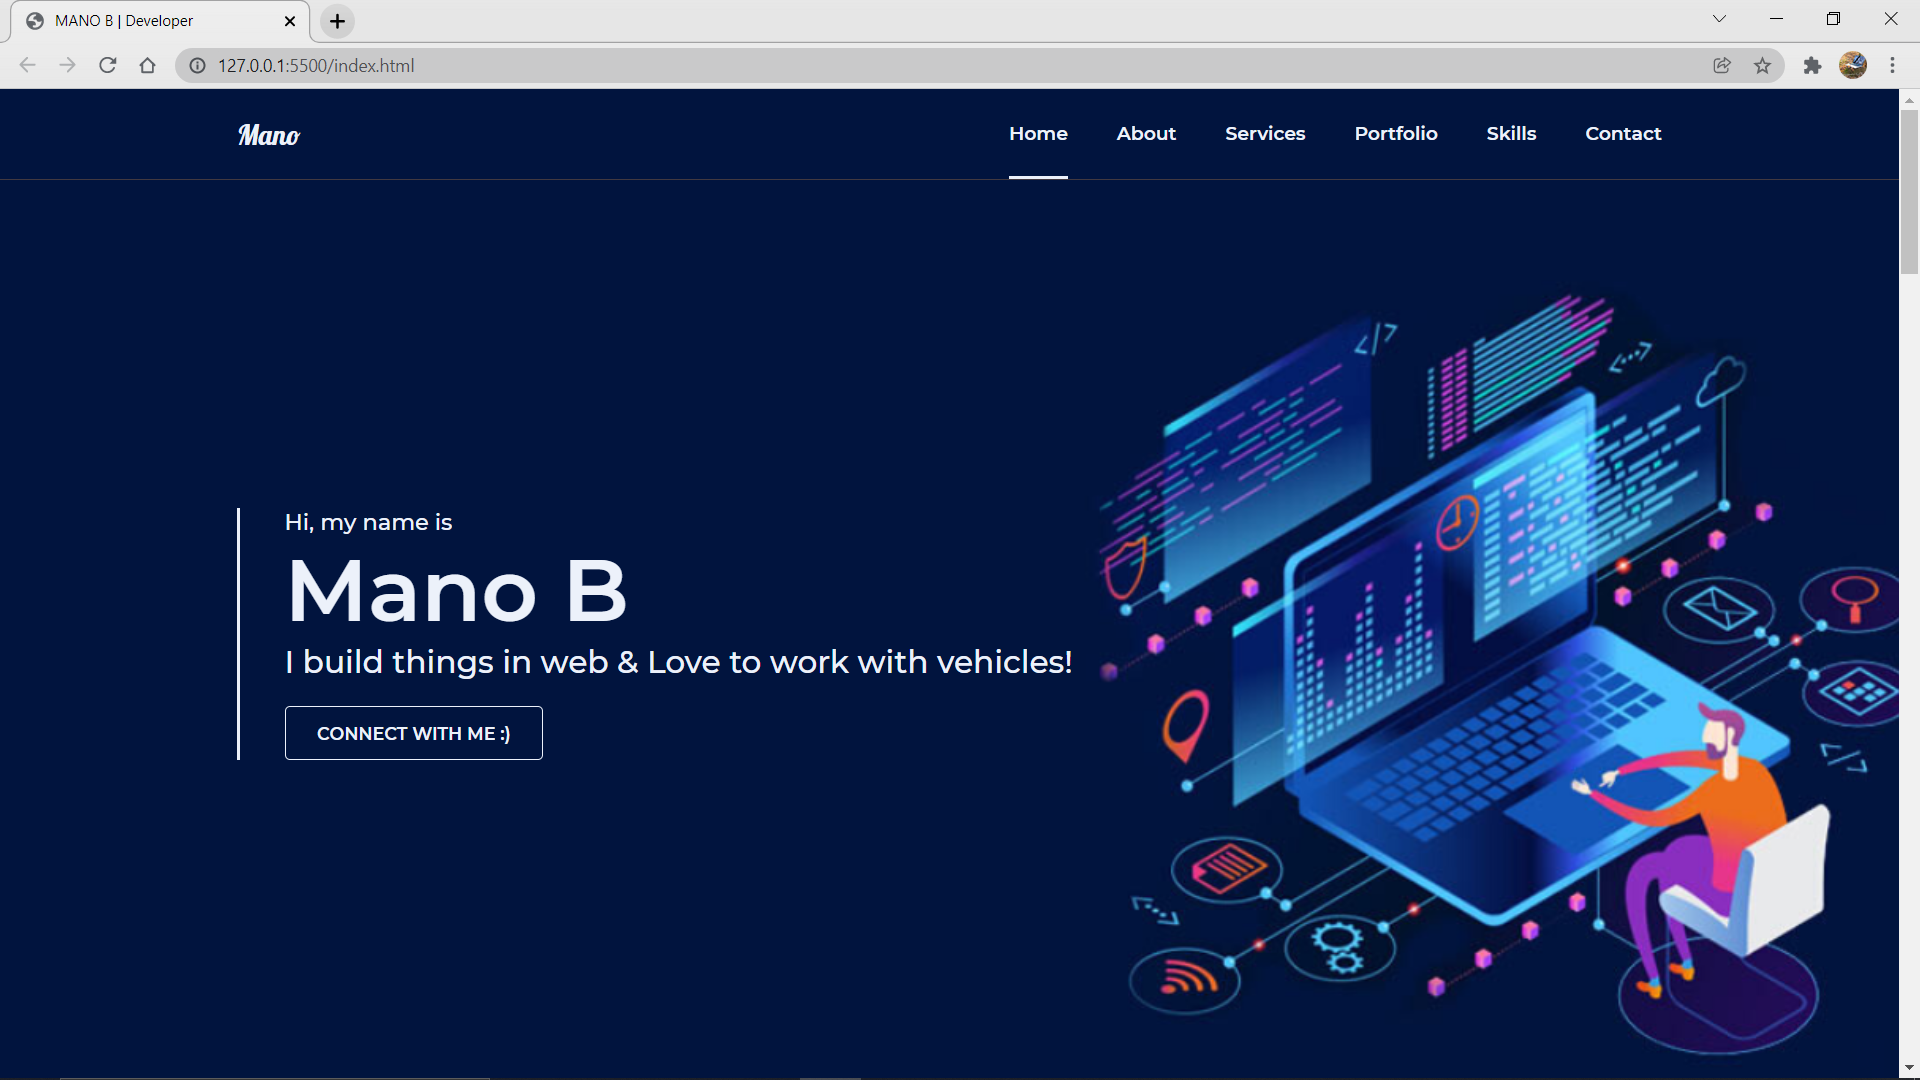
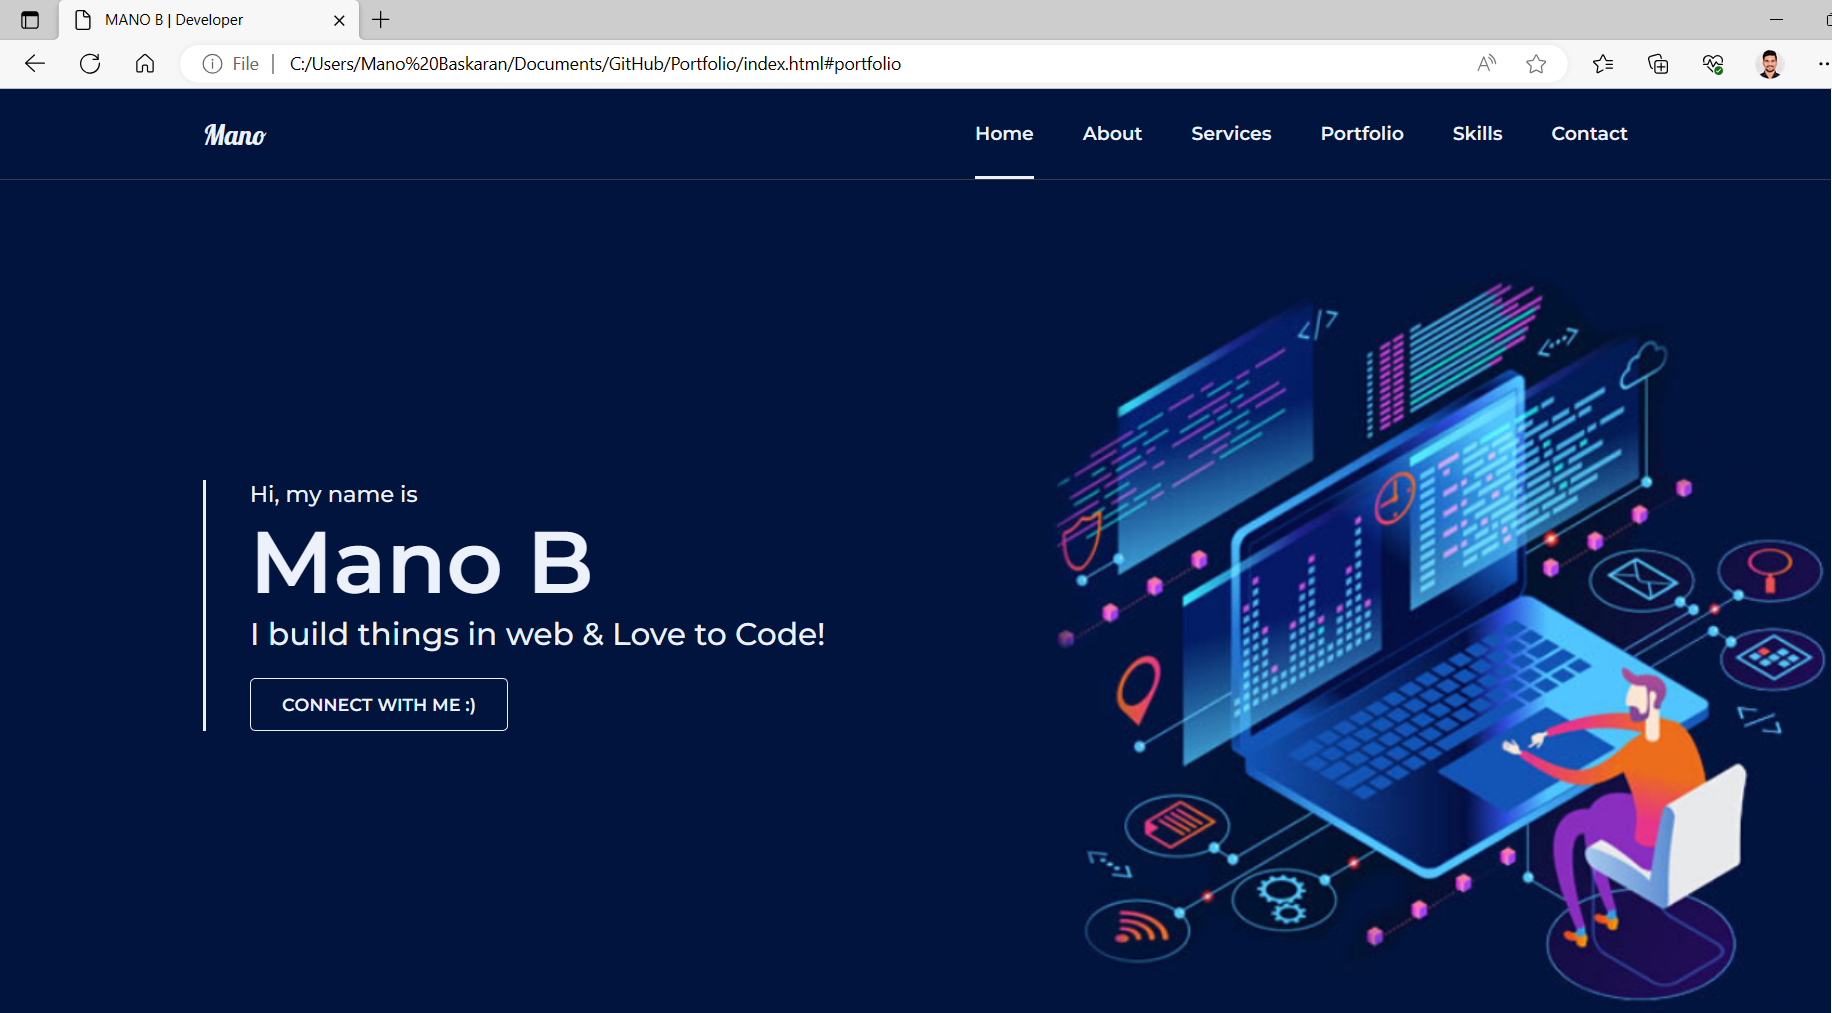
updated

diff --git a/index.html b/index.html
@@ -50,7 +50,7 @@
                   <div class="block">
                      <h6>Hi, my name is</h6>
                      <h1>Mano B</h1>
-                     <h3>I build things in web & Love to work with vehicles!</h3>
+                     <h3>I build things in web & Love to Code!</h3>
                      <div class="cv-btn">
                         <a href="mailto:sbmano2000@gmail.com">Connect with me :)</a>
                      </div>
@@ -74,32 +74,34 @@
                      <img src="img/me.png" alt='me' />
                   </div>
                   <div class="text">
-                     <h4>I'm Mano B</h4>
-                     <h6>A <span>Automobile Engineer</span> and <span> Web developer</span> living and working in
-                      Chennai, Tamilnadu
+                     <h4>I'm Mano</h4>
+                     <h6>A <span>Software Developer</span> having seven months of experience in Web Development.
                      </h6>
-                     <p>A vibrant B.E graduate from Anna University, Chennai. A guy obsessed with modern vehicle and have passionate about creating websites. Experienced with doing electrical and front end projects.
+                     <p>Worked as a full stack developer in <b> Accolite Digital</b>.
+                     </p>
+                     <p>I have completed my  Bachelor's Degree from <b> Anna University</b>, Chennai. Passionate developer having professional experience in developing web application using Java and angular.
                      </p>
                      <div class="skills">
                         <h6>Here are the few Technologies I've been currently learning and working:</h6>
                         <div class="skills-list">
                         <ul  class="fa-ul">
-                           <li><span class="fa-li"><i class="fas fa-check-square"></i></span>C/C++</li>
-                           <li><span class="fa-li"><i class="fas fa-check-square"></i></span>HTML5</li>
-                           <li><span class="fa-li"><i class="fas fa-check-square"></i></span>CSS</li>
-                           <li><span class="fa-li"><i class="fas fa-check-square"></i></span>MYSqL</li>
+                           <li><span class="fa-li"><i class="fas fa-check-square"></i></span>Java</li>
+                           <li><span class="fa-li"><i class="fas fa-check-square"></i></span>Spring Boot</li>
+                           <li><span class="fa-li"><i class="fas fa-check-square"></i></span>Angular</li>
+                           <li><span class="fa-li"><i class="fas fa-check-square"></i></span>MySQL</li>
                         </ul>
                         <ul  class="fa-ul">
-                           <li><span class="fa-li"><i class="fas fa-check-square"></i></span>Java</li>
-                           <li><span class="fa-li"><i class="fas fa-check-square"></i></span>Catia</li>
-                           <li><span class="fa-li"><i class="fas fa-check-square"></i></span>Fusion 360</li>
-                           <li><span class="fa-li"><i class="fas fa-check-square"></i></span>Power Train</li>
+                           <li><span class="fa-li"><i class="fas fa-check-square"></i></span>Postgres</li>
+                           <li><span class="fa-li"><i class="fas fa-check-square"></i></span>Bootstrap</li>
+                           <li><span class="fa-li"><i class="fas fa-check-square"></i></span>Jenkins</li>
+                           <li><span class="fa-li"><i class="fas fa-check-square"></i></span>Cloud Technology</li>
                         </ul>
                         </div>
                      </div>
                      <div class="social">
                         <a href="https://github.com/Sbmano"><i class="fa fa-github"></i></a>
                         <a href="https://www.linkedin.com/in/Sbmano"><i class="fa fa-linkedin"></i></a>
+                        <a href="https://auth.geeksforgeeks.org/user/sbmano100"><i class="fa fa-code"></i></a>
                      </div>
                   </div>
                </div>
@@ -117,21 +119,27 @@
                <div class="service-content">
                   <div class="box">
                      <div class="icon"><i class="fa fa-laptop"></i></div>
-                     <h5>Web Design</h5>
+                     <h5>Web Development</h5>
                      <p>From single landing pages to a fully-blown Application system,
-                        I'll create a design that fits you and your business.
+                        I'll create a Web application that fits you and your business.
                      </p>
                   </div>
+               <div class="box">
+                  <div class="icon"><i class="fas fa-code"></i></div>
+                  <h5>Backend Configuration </h5>
+                  <p>I will securely handle storing and fetching a data from backend and utilise encryption algorithms to ensure integrity.
+                  </p>
+               </div>
                   <div class="box">
                      <div class="icon"><i class="fas fa-truck"></i></div>
-                     <h5>Vehicle Suggestion </h5>
-                     <p>As an automobile engineer I know the pros and cons of each vehicle. So that I can help you to buy a best class vehicle for your budget.
+                     <h5>Vehicle Suggestions </h5>
+                     <p>Also as an automobile engineer I know the pros and cons of most of the vehicles. If you want idea on how to choose vehicles reach out to me. I can help you to buy a best class vehicle in market for your budget.
                      </p>
                   </div>
                   <div class="box">
-                     <div class="icon"><i class="fas fa-car"></i></div>
-                     <h5>Automotive Design</h5>
-                     <p>I will design the basic automotive components according to the given data.
+                     <div class="icon"><i class="fas fa-dumbbell"></i></div>
+                     <h5>Fitness Guidance </h5>
+                     <p>I am a fitness enthusiast. If you really want to get a good physique and do not know how to start feel free to reach out to me. I will guide you step by step. 
                      </p>
                   </div>
                </div>
@@ -149,8 +157,8 @@
                <div class="filter-btn">
                   <ul id="filterBtn">
                      <li class="active" data-target="all">All</li>
-                     <li data-target="web">Web Design</li>
-                     <li data-target="app">Automotive Projects</li>
+                     <li data-target="web">Web Projects</li>
+                     <li data-target="app">E2E Application</li>
                   </ul>
                </div>
             </div>
@@ -161,7 +169,7 @@
                         <img src="./img/portfolio/e-commerce.png" alt="portfolio"/>
                         <div class="overlay">
                            <span class="fa fa-plus"></span>
-                           <h4>Web Design</h4>
+                           <h4>Web Project</h4>
                         </div>
                      </div>
                   </div>
@@ -170,25 +178,25 @@
                         <img src="./img/portfolio/about-me.png" alt="portfolio"/>
                         <div class="overlay">
                            <span class="fa fa-plus"></span>
-                           <h4>Web Design</h4>
+                           <h4>Web Project</h4>
+                        </div>
+                     </div>
+                  </div>
+                  <div class="item" data-id="web">
+                     <div class="inner">
+                        <img src="./img/portfolio/snake&ladder.png" alt="portfolio"/>
+                        <div class="overlay">
+                           <span class="fa fa-plus"></span>
+                           <h4>Web Project</h4>
                         </div>
                      </div>
                   </div>
                   <div class="item" data-id="app">
                      <div class="inner">
-                        <img src="./img/portfolio/smart-helmet.png" alt="portfolio"/>
+                        <img src="./img/portfolio/Bookshop.png" alt="portfolio"/>
                         <div class="overlay">
                            <span class="fa fa-plus"></span>
-                           <h4>Automotive Project</h4>
-                        </div>
-                     </div>
-                  </div>
-                  <div class="item" data-id="app">
-                     <div class="inner">
-                        <img src="./img/portfolio/wiper.png" alt="portfolio"/>
-                        <div class="overlay">
-                           <span class="fa fa-plus"></span>
-                           <h4>Automotive Project</h4>
+                           <h4>E2E Application</h4>
                         </div>
                      </div>
                   </div>
@@ -229,6 +237,7 @@
                         <img src="https://upload.wikimedia.org/wikipedia/commons/1/18/ISO_C%2B%2B_Logo.svg" alt="upload.wikimedia.org" height="60" width="90">
                         <img src="https://www.vectorlogo.zone/logos/java/java-horizontal.svg" alt="vectorlogo.zone" height="50" width="120">
                         <img src="https://www.vectorlogo.zone/logos/mysql/mysql-horizontal.svg" alt="vectorlogo.zone" height="70" width="150">
+                        <img src="https://www.vectorlogo.zone/logos/postgresql/postgresql-ar21.svg" alt="vectorlogo.zone" height="70" width="150">
                      </div>
                   </div>
                   <div class="blog-box">
@@ -239,8 +248,11 @@
                         <div class="blog-info">
                            <span><br></span>
                         </div>
-                        <img src="https://www.vectorlogo.zone/logos/w3_html5/w3_html5-ar21.svg" alt="vectorlogo.zone" style="padding-left:60px;" >
-                        <img src="https://upload.wikimedia.org/wikipedia/commons/d/d5/CSS3_logo_and_wordmark.svg" alt="upload.wikimedia.org" height="60" width="90">
+                        <img src="https://www.vectorlogo.zone/logos/w3_html5/w3_html5-icon.svg" alt="vectorlogo.zone" style="padding-left:60px;" >
+                        <img src="https://www.vectorlogo.zone/logos/getbootstrap/getbootstrap-icon.svg" alt="vectorlogo.zone" style="padding-left:60px;" >
+                        <img src="https://www.vectorlogo.zone/logos/w3_css/w3_css-icon.svg" alt="vectorlogo.zone" style="padding-left:60px;">
+                        <img src="https://www.vectorlogo.zone/logos/springio/springio-ar21.svg" alt="vectorlogo.zone" style="padding-left:60px;" >
+                        <img src="https://www.vectorlogo.zone/logos/angular/angular-icon.svg" alt="vectorlogo.zone" style="padding-left:60px;" >
                      </div>
                   </div>
                   <div class="blog-box">
@@ -251,8 +263,11 @@
                         <div class="blog-info">
                            <span><br></span>
                         </div>
-                        <img src="https://www.vectorlogo.zone/logos/github/github-ar21.svg" alt="vectorlogo.zone" height="60" width="170" style="padding-left:60px;">
-                        <img src="https://www.vectorlogo.zone/logos/visualstudio_code/visualstudio_code-ar21.svg" alt="vectorlogo.zone" height="60" width="120">
+                        <img src="https://www.vectorlogo.zone/logos/github/github-icon.svg" alt="vectorlogo.zone" height="60" width="170" style="padding-left:20px;">
+                        <img src="https://www.vectorlogo.zone/logos/visualstudio_code/visualstudio_code-icon.svg" alt="vectorlogo.zone" height="60" style="padding-left:20px;">
+                        <img src="https://www.vectorlogo.zone/logos/git-scm/git-scm-icon.svg" alt="vectorlogo.zone" height="60" width="170" style="padding-left:20px;">
+                        <img src="https://www.vectorlogo.zone/logos/getpostman/getpostman-icon.svg" alt="vectorlogo.zone" height="60" style="padding-left:20px;">
+                        <img src="https://www.vectorlogo.zone/logos/eclipse_che/eclipse_che-icon.svg" alt="vectorlogo.zone" height="60" style="padding-left:60px;">
                      </div>
                   </div>
                </div>
@@ -288,8 +303,8 @@
                      </div>
                   </div>
                   <div class="row">
-                     <div class="button btn">
-                        <a href="#">Get In Touch</a>
+                     <div class="button btn form-submit" type="submit">
+                        <a href="mailto:sbmano2000@gmail.com">Get In Touch</a>
                      </div>
                   </div>
                </div>
